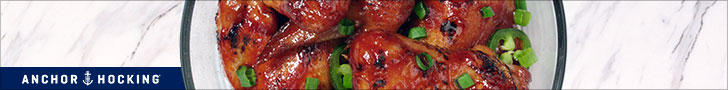
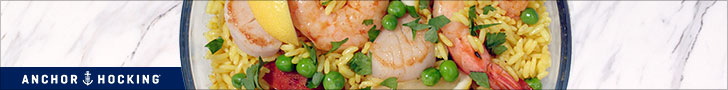
Creative update

diff --git a/app/728x90/scripts/Animation.js b/app/728x90/scripts/Animation.js
@@ -50,9 +50,9 @@ app.Animation = (function () {
         tl2.from(txt2, .5, {opacity: 0}, "+=4")
             .to(txt2, .5, {opacity: 0}, "+=2")
 
-            .to(table, 1, {y:"-=90", ease: Cubic.easeInOut})
-            .to(resolve_txt1, 1, {y:"-=90", ease: Cubic.easeInOut}, "-=1")
-            .to(resolve_bg, 1, {y:"-=90", ease: Cubic.easeInOut}, "-=1")
+            .to(table, 1, {y:"+=90", ease: Cubic.easeInOut})
+            .to(resolve_txt1, 1, {y:"+=90", ease: Cubic.easeInOut}, "-=1")
+            .to(resolve_bg, 1, {y:"+=90", ease: Cubic.easeInOut}, "-=1")
 
             .to(resolve_txt1, .2, {opacity:0}, "+=2")
             .to(logo, .2, {opacity:1})

diff --git a/app/728x90/styles/_layout.scss b/app/728x90/styles/_layout.scss
@@ -45,14 +45,14 @@ body {
     }
 
     #resolve_bg {
-        top:  90px;
+        top:  -90px;
         left: 0;
         position: absolute;
         transform: translate3d(0, 0, 0.1px);
     }
 
     #resolve_txt1 {
-        top: 90px;
+        top: -90px;
         right: 0;
         //opacity:0;
         position: absolute;

diff --git a/app/160x600/index.html b/app/160x600/index.html
@@ -2,7 +2,7 @@
 <html lang="">
 <head>
     <meta charset="utf-8">
-    <title>AH_ChickenWings</title>
+    <title>AH_Paella</title>
     <meta name="description" content="">
     <meta name="viewport" content="width=device-width, initial-scale=1">
     <meta name="ad.size" content="width=160,height=600">

diff --git a/app/300x600/index.html b/app/300x600/index.html
@@ -2,7 +2,7 @@
 <html lang="">
 <head>
     <meta charset="utf-8">
-    <title>AH_ChickenWings</title>
+    <title>AH_Paella</title>
     <meta name="description" content="">
     <meta name="viewport" content="width=device-width, initial-scale=1">
     <meta name="ad.size" content="width=300,height=600">

diff --git a/app/728x90/index.html b/app/728x90/index.html
@@ -2,7 +2,7 @@
 <html lang="">
 <head>
     <meta charset="utf-8">
-    <title>AH_ChickenWings</title>
+    <title>AH_Paella</title>
     <meta name="description" content="">
     <meta name="viewport" content="width=device-width, initial-scale=1">
     <meta name="ad.size" content="width=728,height=90">
